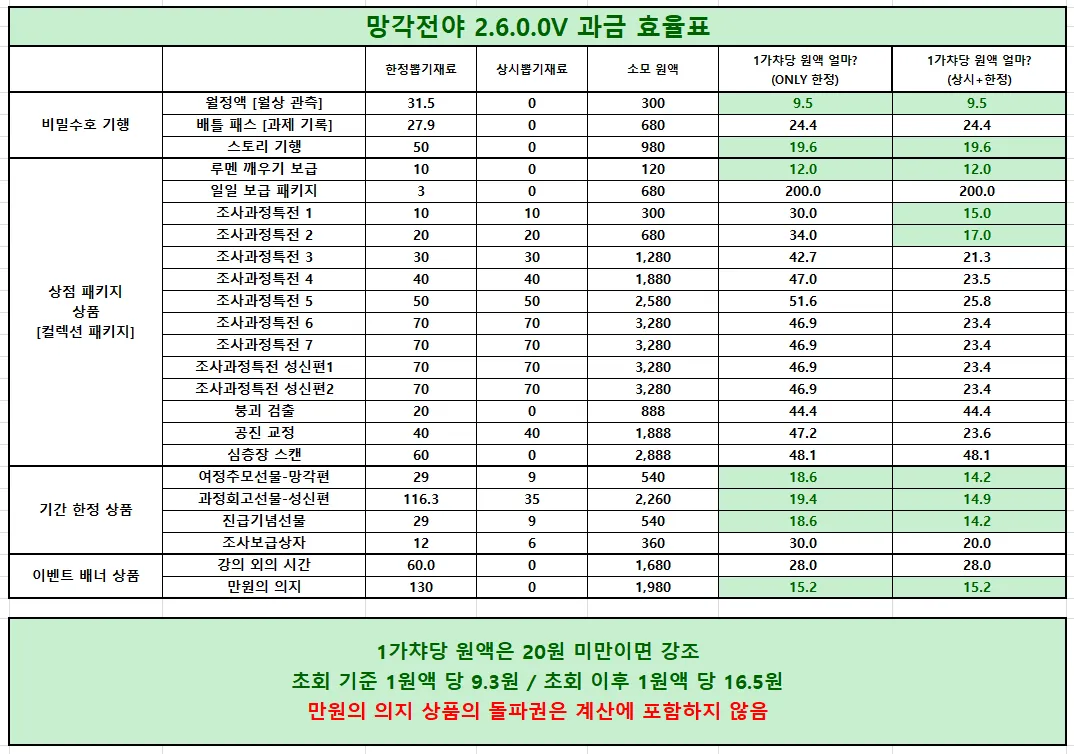
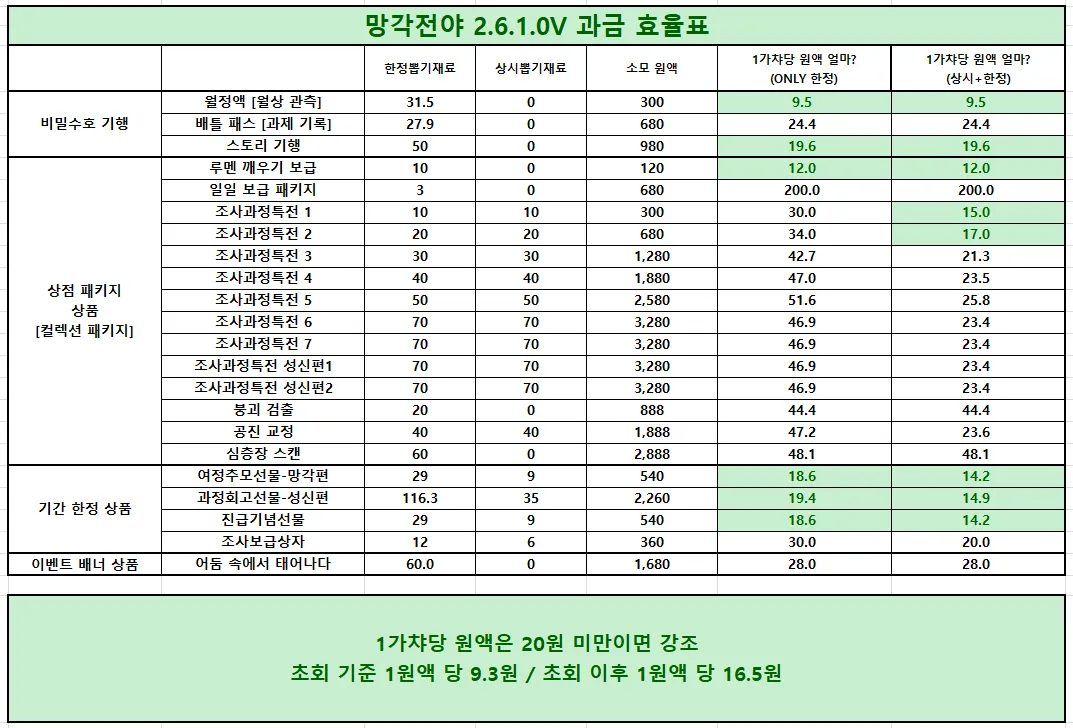
fix: update payment efficiency chart

diff --git a/payment_efficiency.html b/payment_efficiency.html
@@ -29,9 +29,9 @@
         </header>
 
         <div class="payment-image-viewer">
-            <img src="images/Payment_Efficiency.webp"
-                 width="1075"
-                 height="738"
+            <img src="images/Payment_Efficiency.webp?v=20260923"
+                 width="1073"
+                 height="728"
                  alt="망각전야 과금 효율표">
         </div>
         <p class="payment-image-credit">
